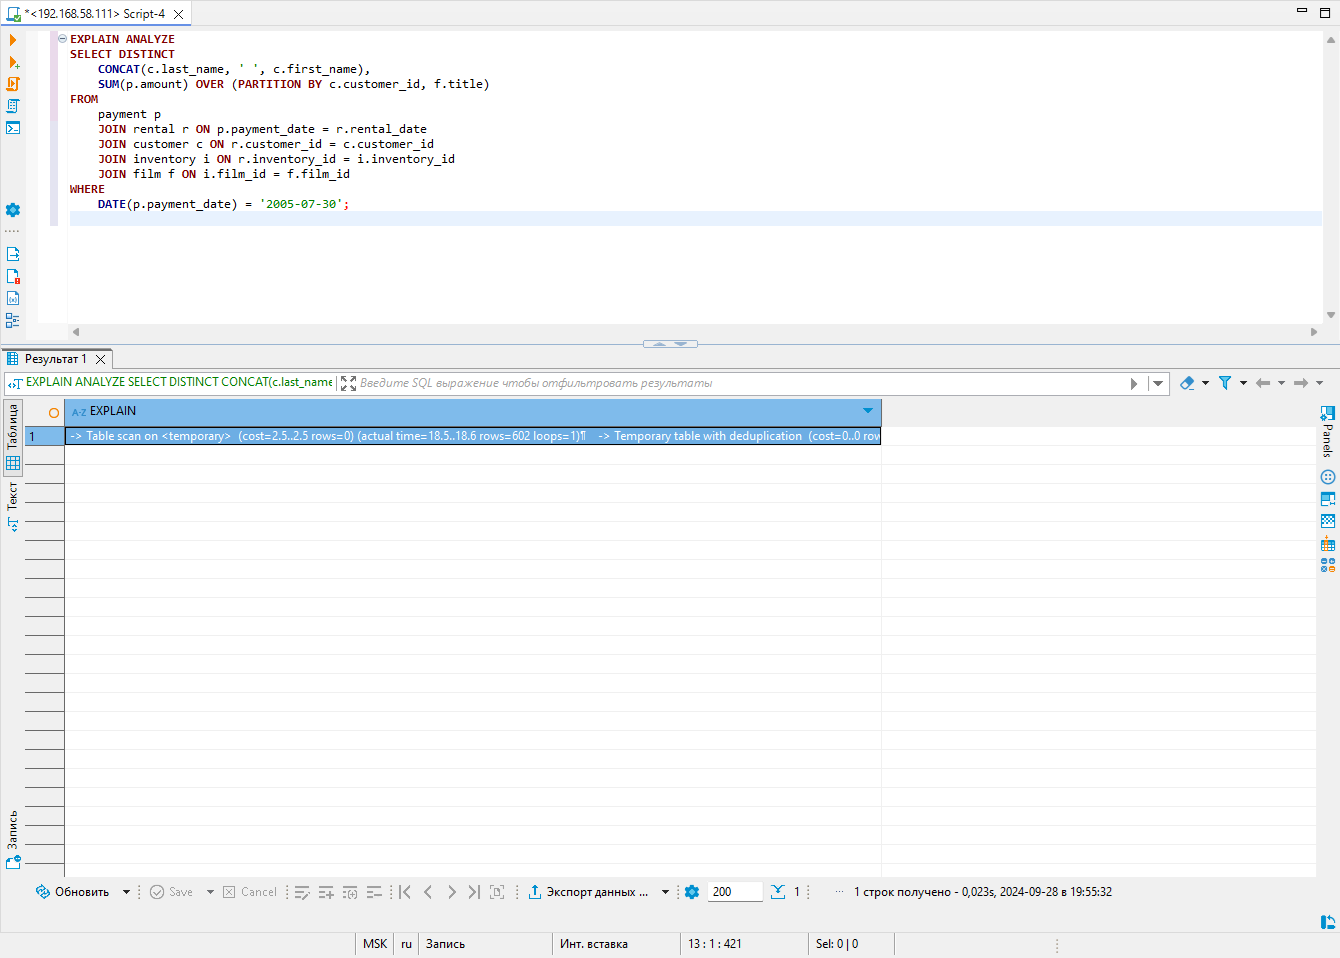
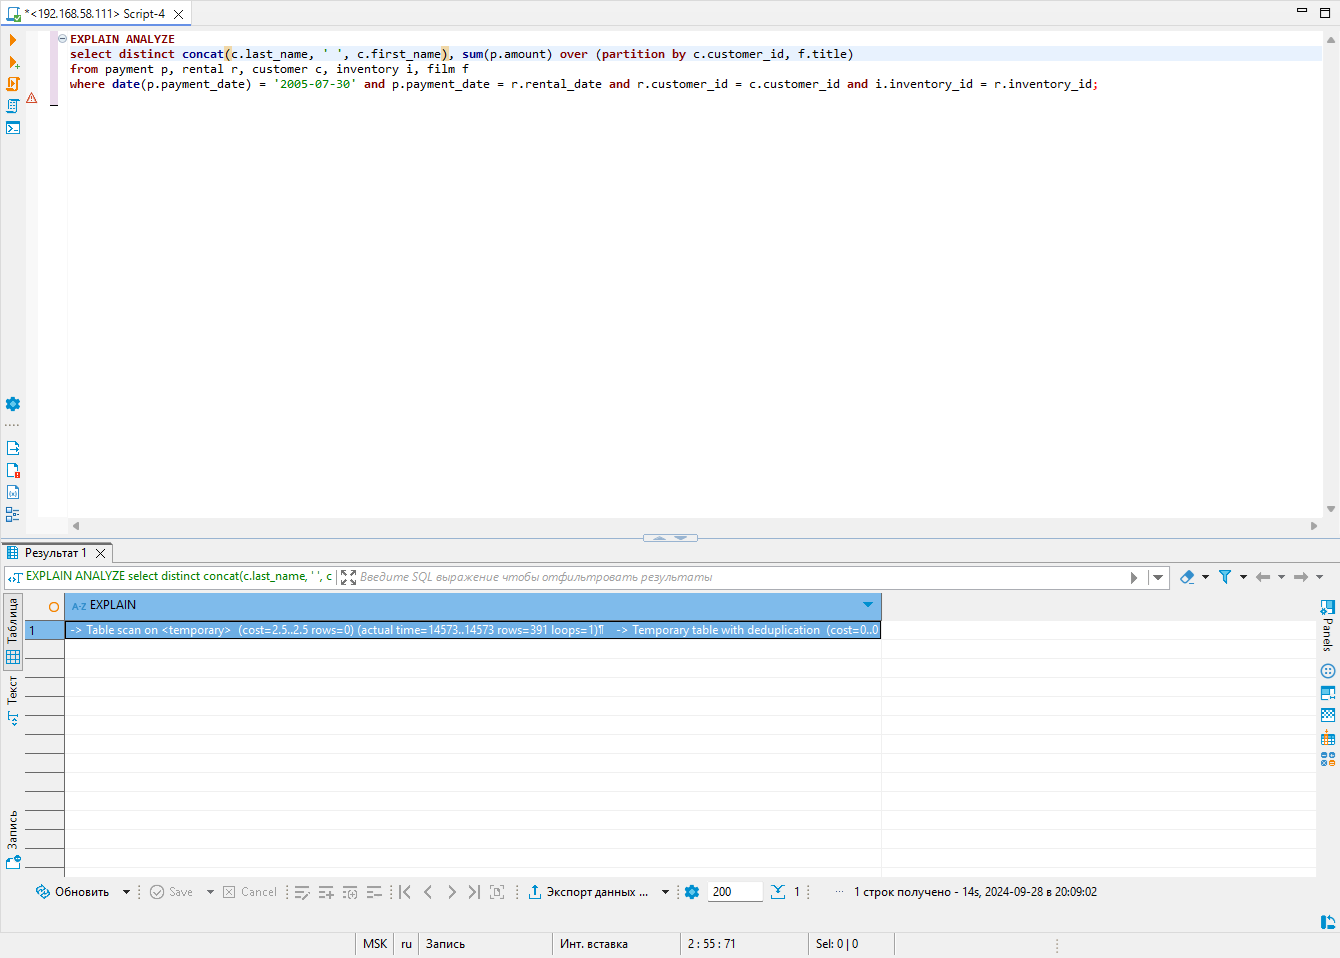
all

diff --git a/README.md b/README.md
@@ -31,55 +31,41 @@ where date(p.payment_date) = '2005-07-30' and p.payment_date = r.rental_date and
 Выполняем **explain analyze** запроса:
 ```
 EXPLAIN ANALYZE
-SELECT DISTINCT 
-    CONCAT(c.last_name, ' ', c.first_name), 
-    SUM(p.amount) OVER (PARTITION BY c.customer_id, f.title)
-FROM 
-    payment p
-    JOIN rental r ON p.payment_date = r.rental_date
-    JOIN customer c ON r.customer_id = c.customer_id
-    JOIN inventory i ON r.inventory_id = i.inventory_id
-    JOIN film f ON i.film_id = f.film_id
-WHERE 
-    DATE(p.payment_date) = '2005-07-30';
+select distinct concat(c.last_name, ' ', c.first_name), sum(p.amount) over (partition by c.customer_id, f.title)
+from payment p, rental r, customer c, inventory i, film f
+where date(p.payment_date) = '2005-07-30' and p.payment_date = r.rental_date and r.customer_id = c.customer_id and i.inventory_id = r.inventory_id;
 ```
 
 <img src = "img/02.png" width = 100%>
 
 **Запрос вернул:**
 ```
--> Table scan on <temporary>  (cost=2.5..2.5 rows=0) (actual time=246..246 rows=602 loops=1)
--> Temporary table with deduplication  (cost=0..0 rows=0) (actual time=246..246 rows=602 loops=1)
--> Window aggregate with buffering: sum(payment.amount) OVER (PARTITION BY c.customer_id,f.title )   (actual time=235..244 rows=642 loops=1)
--> Sort: c.customer_id, f.title  (actual time=235..235 rows=642 loops=1)
--> Stream results  (cost=76498 rows=17132) (actual time=111..234 rows=642 loops=1)
--> Nested loop inner join  (cost=76498 rows=17132) (actual time=111..233 rows=642 loops=1)
--> Nested loop inner join  (cost=57652 rows=17132) (actual time=104..209 rows=642 loops=1)
--> Nested loop inner join  (cost=38807 rows=17132) (actual time=78.7..168 rows=642 loops=1)
--> Nested loop inner join  (cost=19961 rows=17132) (actual time=42.5..128 rows=642 loops=1)
--> Filter: (cast(p.payment_date as date) = '2005-07-30')  (cost=1747 rows=16500) (actual time=30.4..111 rows=634 loops=1)
--> Table scan on p  (cost=1747 rows=16500) (actual time=30.4..106 rows=16044 loops=1)
--> Covering index lookup on r using rental_date (rental_date=p.payment_date)  (cost=1 rows=1.04) (actual time=0.0241..0.0254 rows=1.01 loops=634)
--> Single-row index lookup on c using PRIMARY (customer_id=r.customer_id)  (cost=1 rows=1) (actual time=0.0626..0.0627 rows=1 loops=642)
--> Single-row index lookup on i using PRIMARY (inventory_id=r.inventory_id)  (cost=1 rows=1) (actual time=0.0625..0.0625 rows=1 loops=642)
--> Single-row index lookup on f using PRIMARY (film_id=i.film_id)  (cost=1 rows=1) (actual time=0.0368..0.0368 rows=1 loops=642)
+-> Table scan on <temporary>  (cost=2.5..2.5 rows=0) (actual time=14573..14573 rows=391 loops=1)
+-> Temporary table with deduplication  (cost=0..0 rows=0) (actual time=14573..14573 rows=391 loops=1)
+-> Window aggregate with buffering: sum(payment.amount) OVER (PARTITION BY c.customer_id,f.title )   (actual time=6482..14028 rows=642000 loops=1)
+-> Sort: c.customer_id, f.title  (actual time=6482..6719 rows=642000 loops=1)
+-> Stream results  (cost=22.8e+6 rows=17.1e+6) (actual time=0.639..4810 rows=642000 loops=1)
+-> Nested loop inner join  (cost=22.8e+6 rows=17.1e+6) (actual time=0.631..3895 rows=642000 loops=1)
+-> Nested loop inner join  (cost=21.1e+6 rows=17.1e+6) (actual time=0.626..3406 rows=642000 loops=1)
+-> Nested loop inner join  (cost=19.3e+6 rows=17.1e+6) (actual time=0.619..2750 rows=642000 loops=1)
+-> Inner hash join (no condition)  (cost=1.65e+6 rows=16.5e+6) (actual time=0.602..139 rows=634000 loops=1)
+-> Filter: (cast(p.payment_date as date) = '2005-07-30')  (cost=1.72 rows=16500) (actual time=0.0465..12.4 rows=634 loops=1)
+-> Table scan on p  (cost=1.72 rows=16500) (actual time=0.0317..8.27 rows=16044 loops=1)
+-> Hash
+-> Covering index scan on f using idx_title  (cost=103 rows=1000) (actual time=0.112..0.427 rows=1000 loops=1)
+-> Covering index lookup on r using rental_date (rental_date=p.payment_date)  (cost=0.969 rows=1.04) (actual time=0.00256..0.00368 rows=1.01 loops=634000)
+-> Single-row index lookup on c using PRIMARY (customer_id=r.customer_id)  (cost=250e-6 rows=1) (actual time=524e-6..591e-6 rows=1 loops=642000)
+-> Single-row covering index lookup on i using PRIMARY (inventory_id=r.inventory_id)  (cost=250e-6 rows=1) (actual time=346e-6..418e-6 rows=1 loops=642000)
 ```
 
-**Возможные узкие места:**
+**Узкие места:**
+**Функция DATE(p.payment_date):** Использование функции DATE на колонке payment_date препятствует использованию индексов, что приводит к полному сканированию таблицы payment.
 
-Фильтрация по дате с использованием функции CAST():
+**Nested Loop Joins:** Несколько вложенных циклов (Nested Loop Joins) могут быть очень дорогими, особенно если одна из таблиц значительно больше другой.
 
-Узкое место: использование CAST(p.payment_date AS date) приводит к тому, что индексы на payment_date не используются эффективно.
-Временная таблица для удаления дубликатов:
+**Window Function:** Оконная функция SUM(p.amount) OVER (PARTITION BY c.customer_id, f.title) требует сортировки и агрегации большого объема данных, что приводит к значительным затратам времени.
 
-Создание временной таблицы для удаления дубликатов может быть дорогостоящей операцией.
-Буферизация оконного агрегата:
-
-Оконная функция SUM() требует буферизации, что может быть дорогостоящим для больших наборов данных.
-Использование вложенных циклов (Nested Loop Joins):
-
-Вложенные циклы могут быть неэффективными для больших таблиц, особенно если они не оптимизированы с индексами.
-
+**Временные таблицы и сортировка:** Создание временных таблиц и последующая сортировка данных также увеличивают время выполнения.
 
 
 
@@ -87,34 +73,59 @@ WHERE
 
 **Для оптимизации на мой взгляд можно выполнить следующее:**
 
-**Использование индексов:** Добавление индексов на ключи, используемые в условиях соединения и фильтрации.
-
-**Оптимизация фильтрации по дате:** Избежать использования функции DATE, чтобы позволить использование индексов.
-
 **Добавим индексы:**
 ```
 CREATE INDEX idx_payment_date ON payment(payment_date);
 CREATE INDEX idx_rental_date ON rental(rental_date);
-CREATE INDEX idx_rental_customer ON rental(customer_id);
+CREATE INDEX idx_customer_id ON customer(customer_id);
 CREATE INDEX idx_inventory_id ON inventory(inventory_id);
 CREATE INDEX idx_film_id ON film(film_id);
 ```
+<img src = "img/03.png" width = 100%>
 
 **Видоизменим сам запрос следующим образом:**
 ```
 EXPLAIN ANALYZE
-SELECT DISTINCT 
-    CONCAT(c.last_name, ' ', c.first_name) AS customer_name, 
-    SUM(p.amount) OVER (PARTITION BY c.customer_id, f.title) AS total_amount
-FROM 
-    payment p
-    JOIN rental r ON p.payment_date = r.rental_date
-    JOIN customer c ON r.customer_id = c.customer_id
-    JOIN inventory i ON r.inventory_id = i.inventory_id
-    JOIN film f ON i.film_id = f.film_id
-WHERE 
-    p.payment_date BETWEEN '2005-07-30 00:00:00' AND '2005-07-30 23:59:59';
+SELECT DISTINCT
+  CONCAT(c.last_name, ' ', c.first_name),
+  SUM(p.amount) OVER (PARTITION BY c.customer_id, f.title)
+FROM
+  payment p
+  JOIN rental r ON p.payment_date = r.rental_date
+  JOIN customer c ON r.customer_id = c.customer_id
+  JOIN inventory i ON r.inventory_id = i.inventory_id
+  JOIN film f ON i.film_id = f.film_id
+WHERE
+  p.payment_date >= '2005-07-30' AND p.payment_date < '2005-07-31';
 ```
+<img src = "img/04.png" width = 100%>
+
+```
+-> Table scan on <temporary>  (cost=2.5..2.5 rows=0) (actual time=24..24.1 rows=602 loops=1)
+-> Temporary table with deduplication  (cost=0..0 rows=0) (actual time=24..24 rows=602 loops=1)
+-> Window aggregate with buffering: sum(payment.amount) OVER (PARTITION BY c.customer_id,f.title )   (actual time=19.9..23.5 rows=642 loops=1)
+-> Sort: c.customer_id, f.title  (actual time=19.9..20.4 rows=642 loops=1)
+-> Stream results  (cost=1032 rows=661) (actual time=0.0645..19.1 rows=642 loops=1)
+-> Nested loop inner join  (cost=1032 rows=661) (actual time=0.0587..16.8 rows=642 loops=1)
+-> Nested loop inner join  (cost=807 rows=661) (actual time=0.0526..14.9 rows=642 loops=1)
+-> Nested loop inner join  (cost=582 rows=661) (actual time=0.047..12.4 rows=642 loops=1)
+-> Nested loop inner join  (cost=351 rows=634) (actual time=0.0302..3.63 rows=634 loops=1)
+-> Filter: ((r.rental_date >= TIMESTAMP'2005-07-30 00:00:00') and (r.rental_date < TIMESTAMP'2005-07-31 00:00:00'))  (cost=129 rows=634) (actual time=0.0195..1.48 rows=634 loops=1)
+-> Covering index range scan on r using rental_date over ('2005-07-30 00:00:00' <= rental_date < '2005-07-31 00:00:00')  (cost=129 rows=634) (actual time=0.017..0.656 rows=634 loops=1)
+-> Single-row index lookup on c using PRIMARY (customer_id=r.customer_id)  (cost=0.25 rows=1) (actual time=0.00295..0.003 rows=1 loops=634)
+-> Index lookup on p using idx_payment_date (payment_date=r.rental_date)  (cost=0.261 rows=1.04) (actual time=0.0119..0.0135 rows=1.01 loops=634)
+-> Single-row index lookup on i using PRIMARY (inventory_id=r.inventory_id)  (cost=0.24 rows=1) (actual time=0.0034..0.00345 rows=1 loops=642)
+-> Single-row index lookup on f using PRIMARY (film_id=i.film_id)  (cost=0.24 rows=1) (actual time=0.00253..0.00258 rows=1 loops=642)
+```
+
+
+
+
+
+
+
+
+
 
 ---
 ## Задание 3
@@ -124,4 +135,4 @@ WHERE
 
 ### Ответ:
 
-<img src = "img/03.png" width = 100%>
+
